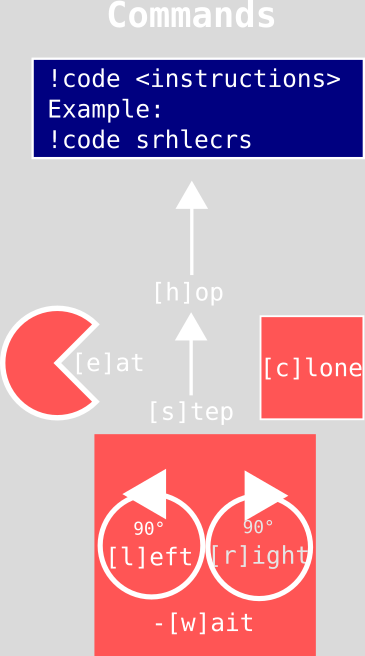
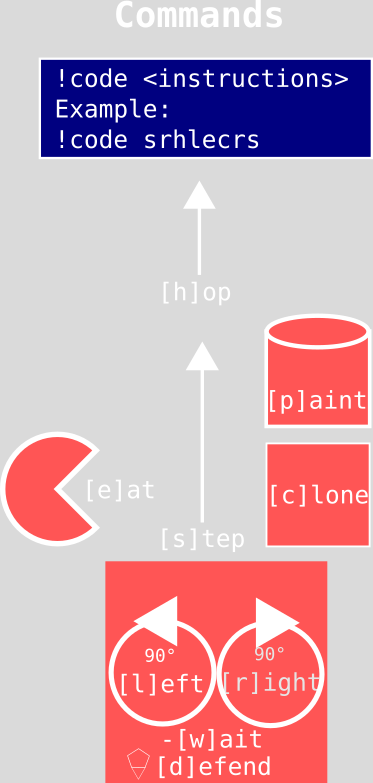
Add I_PAINT, I_DEFEND

diff --git a/battle.py b/battle.py
@@ -13,13 +13,13 @@ def getColor(t):
 
 directions = [(0,1), (1,0), (0,-1), (-1,0)]
 
-NUM_INSTR = 7
+NUM_INSTR = 9
 
-I_STEP, I_WAIT, I_LEFT, I_RIGHT, I_EAT, I_HOP, I_CLONE = range(NUM_INSTR)
-I_PREWAIT = [0,0,0,0,0,2,20]
-I_POSTWAIT = [0,0,0,0,1,0,5]
+I_STEP, I_WAIT, I_LEFT, I_RIGHT, I_EAT, I_HOP, I_CLONE, I_PAINT, I_DEFEND = range(NUM_INSTR)
+I_PREWAIT = [0,0,0,0,0,2,20,1,0]
+I_POSTWAIT = [0,0,0,0,1,0,5,0,0]
 
-INAMES = "swlrehc"
+INAMES = "swlrehcpd"
 
 BATTLESCREENTICKS = 200
 
@@ -38,6 +38,7 @@ class Shell:
 
 class Virus:
     def __init__(self, color, code):
+        self.defense = 0
         self.color = color
         self.code = code
         self.ip = 0
@@ -86,6 +87,8 @@ class Battle:
             if not isinstance(active, Virus):
                 continue
 
+            active.defense = max(0, active.defense-1)
+
             if active.postwait is not None:
                 active.postwait = max(0, active.postwait-1)
 
@@ -128,7 +131,12 @@ class Battle:
             elif instr == I_EAT:
                 # Removes all cells one step into the looking direction
                 nx, ny = self.step(xy, active, 1)
-                self.world[ny][nx] = None
+                target = self.world[ny][nx]
+                if isinstance(target, tuple):
+                    self.world[ny][nx] = None
+                elif isinstance(target, Virus):
+                    if target.defense == 0:
+                        self.world[ny][nx] = None
 
             elif instr == I_HOP:
                 # Jumps two cells, but doesn't color the old one
@@ -144,6 +152,16 @@ class Battle:
                 new = Virus(active.color, active.code)
                 if self.world[ny][nx] is None:
                     self.world[ny][nx] = new
+
+            elif instr == I_PAINT:
+                nx, ny = self.step(xy, active, 1)
+                if self.world[ny][nx] is None or isinstance(self.world[ny][nx], tuple):
+                    self.world[ny][nx] = active.color
+                else:
+                    self.world[ny][nx].color = active.color
+
+            elif instr == I_DEFEND:
+                active.defense = 1
 
             active.postwait = I_POSTWAIT[instr] + 1
             active.ip += 1
@@ -177,11 +195,17 @@ class Battle:
                 self.counter[None] += 1
                 continue
             elif isinstance(tile, Virus):
-                color = tile.color
+                self.counter[tile.color] += 1
+                color = list(tile.color)
+                color[0] = min(255, color[0]+20)
+                color[1] = min(255, color[1]+20)
+                color[2] = min(255, color[2]+20)
+                color = tuple(color)
             else:
                 color = tile
+                self.counter[color] += 1
             pygame.draw.rect(surf, color, pygame.Rect(x*self.scale, y*self.scale, self.scale, self.scale))
-            self.counter[color] += 1
+
 
         #text(surf, 0, 0, str(self.counter))
 

diff --git a/main.py b/main.py
@@ -149,9 +149,11 @@ def reload_custom():
 	if len(shells) > 0:
 		createOrChange("mutant", mutate(splice(mutate(choice(shells)), mutate(choice(shells)))).code)
 
-#shells.append(new_shell("H", (100, 150, 190), codify("lsclsrcselhc")))
+shells.append(new_shell("H", (100, 150, 190), codify("lsclsrcselhc")))
 shells.append(new_shell("playsdwarffortress", (200, 150, 30), codify("srchrehhhrchhh")))
 shells.append(new_shell("str0hhalm", (255, 255, 0), codify("crschc")))
+shells.append(new_shell("painter", (0,255,0), codify("plsrc")))
+shells.append(new_shell("defender", (0,255,0), codify("esddrhcr")))
 #shells.append(new_shell("Simple", (255,255,255), codify("r")))
 
 running = True
